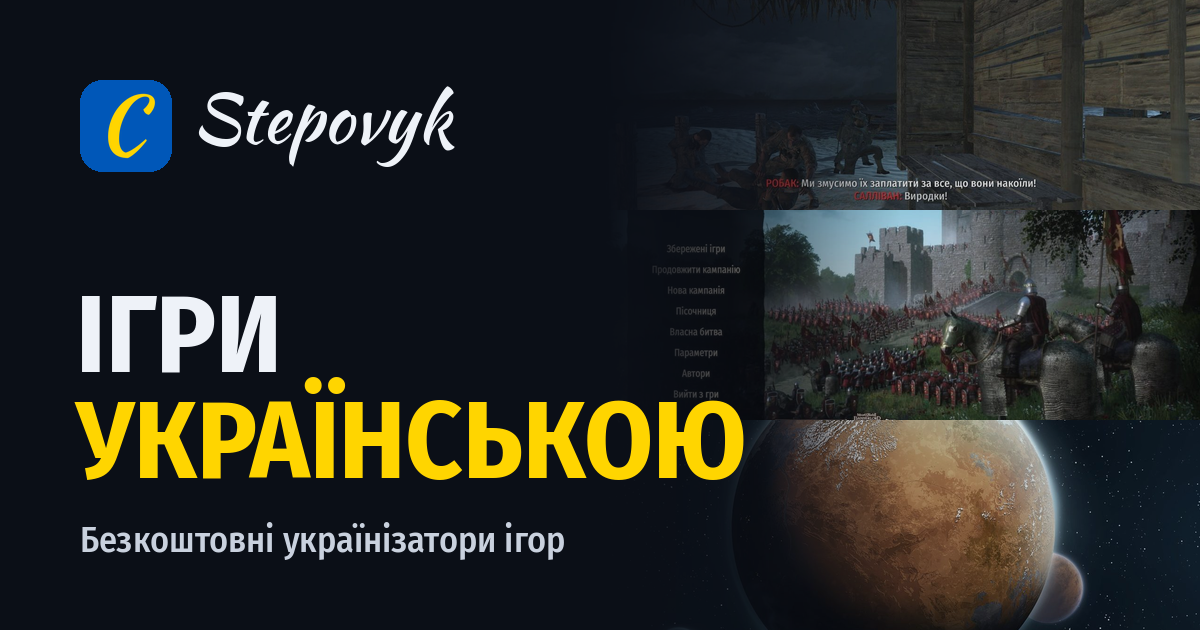
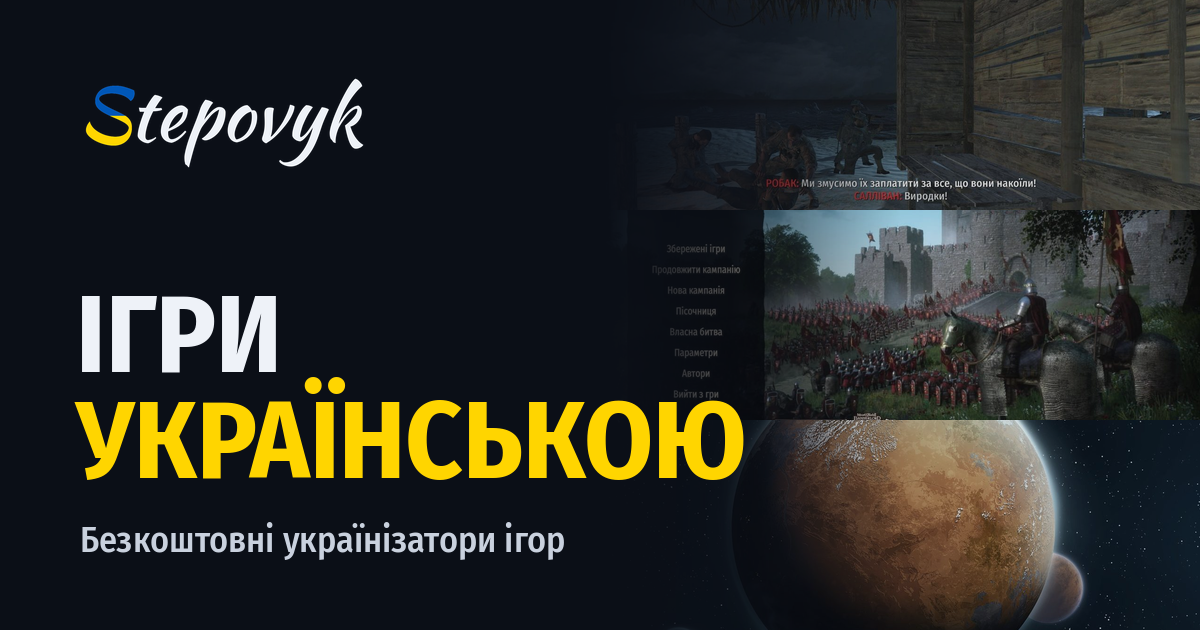
Знак – «S» у кольорах прапора, у шапці – підпис Stepovyk

Changed region(s): [[0.0617, 0.1206, 0.4008, 0.2714], [0.37, 0.1206, 0.4008, 0.1508]]

diff --git a/index.html b/index.html
@@ -44,8 +44,8 @@ a{color:inherit}
 /* шапка */
 header{position:sticky;top:0;z-index:10;background:rgb(11 15 23 / .82);backdrop-filter:blur(12px);-webkit-backdrop-filter:blur(12px);border-bottom:1px solid rgb(255 255 255 / .06)}
 .bar{display:flex;align-items:center;justify-content:space-between;height:64px;gap:12px}
-.brand{display:flex;align-items:center;gap:10px;text-decoration:none;font:400 27px/1 "Kaushan Script",var(--head)}
-.brand img{width:38px;height:38px;border-radius:9px}
+.brand{display:inline-flex;align-items:center;min-height:44px;text-decoration:none;font:400 31px/1 "Kaushan Script",var(--head);color:var(--text)}
+.brand .s{background:linear-gradient(var(--blue) 50%,var(--yellow) 50%);-webkit-background-clip:text;background-clip:text;color:transparent;padding:.08em 0}
 .nav{display:flex;gap:6px;align-items:center}
 .nav a{text-decoration:none;color:var(--muted);font:500 15px/1 var(--body);padding:14px 12px;border-radius:999px;transition:color .2s,background .2s}
 .nav a:hover{color:var(--text);background:var(--surface)}
@@ -140,7 +140,7 @@ footer{padding:40px 0 56px;color:var(--muted);font-size:15px}
 <body>
 <header>
   <div class="wrap bar">
-    <a class="brand" href="#top" aria-label="Ігри українською – на початок"><img src="assets/icon.svg" alt="" width="38" height="38">Stepovyk</a>
+    <a class="brand" href="#top" aria-label="Ігри українською – на початок"><span class="s">S</span>tepovyk</a>
     <nav class="nav" aria-label="Розділи">
       <a class="opt" href="#games">Переклади</a>
       <a class="opt" href="#next">У роботі</a>

diff --git a/404.html b/404.html
@@ -17,7 +17,7 @@ a{display:inline-flex;align-items:center;min-height:48px;padding:0 24px;border-r
 </head>
 <body>
 <main>
-  <img src="/assets/icon.svg" alt="">
+  <img src="/assets/avatar-512.png" alt="" style="border-radius:24px">
   <h1>Такої сторінки немає</h1>
   <p>Усі переклади – на головній.</p>
   <a href="/">На головну</a>
